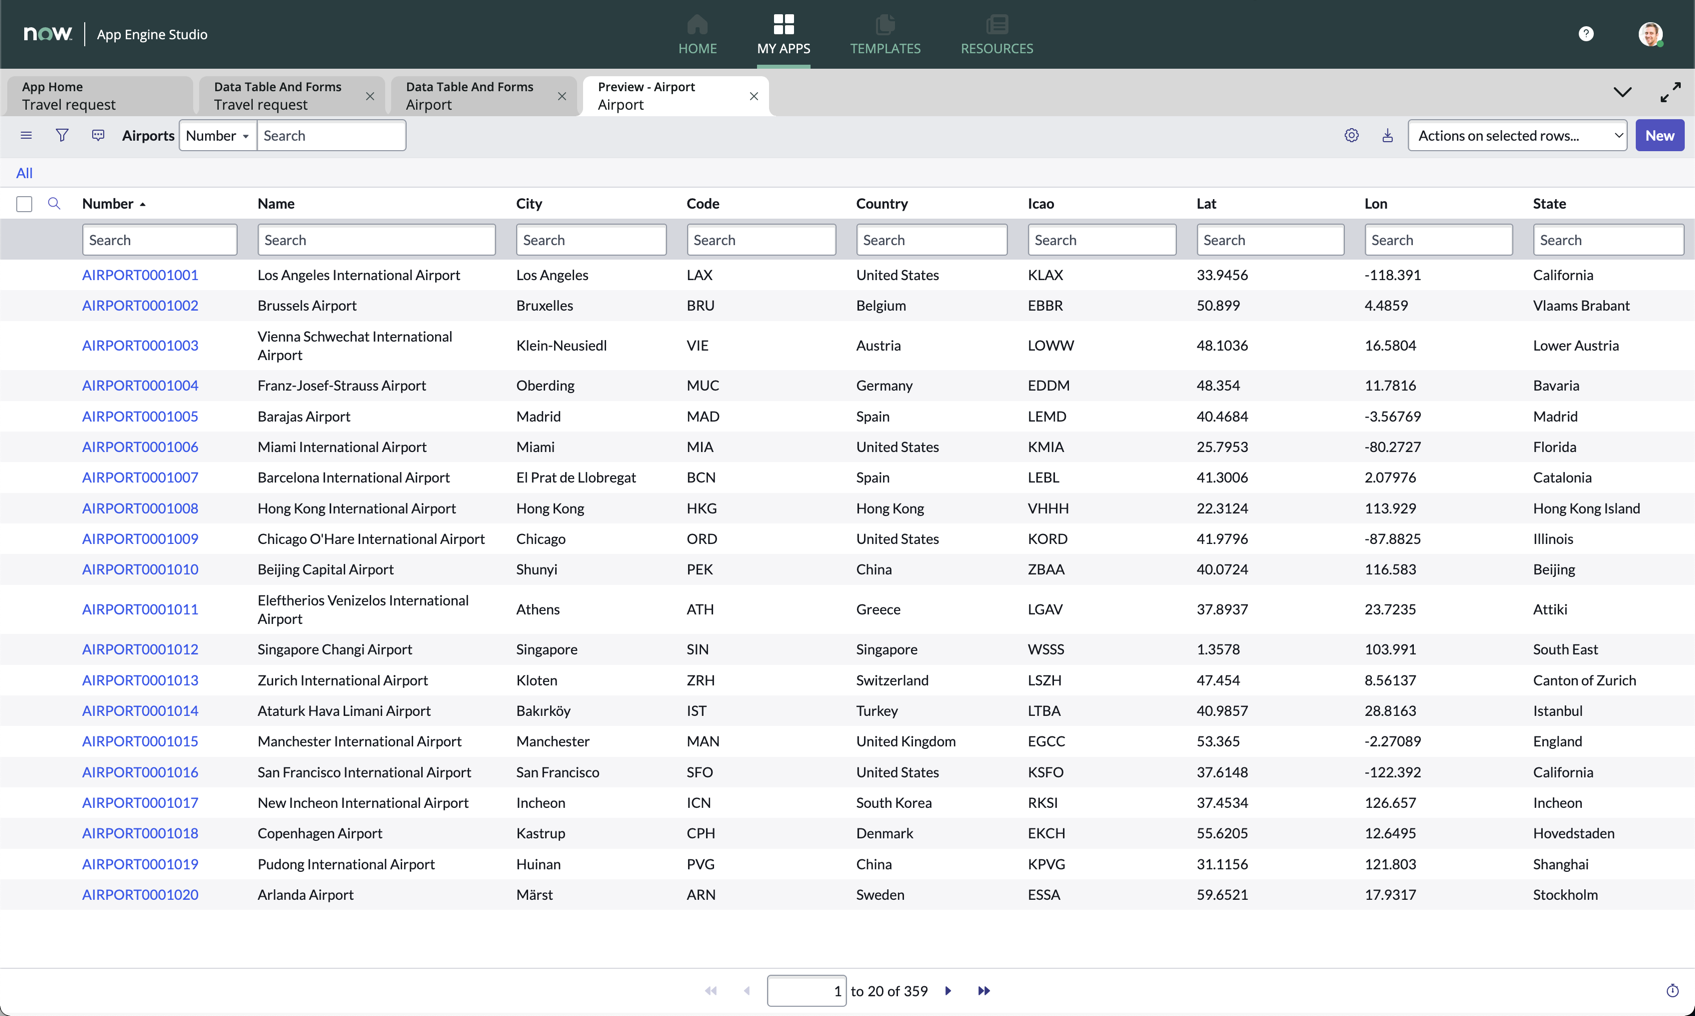
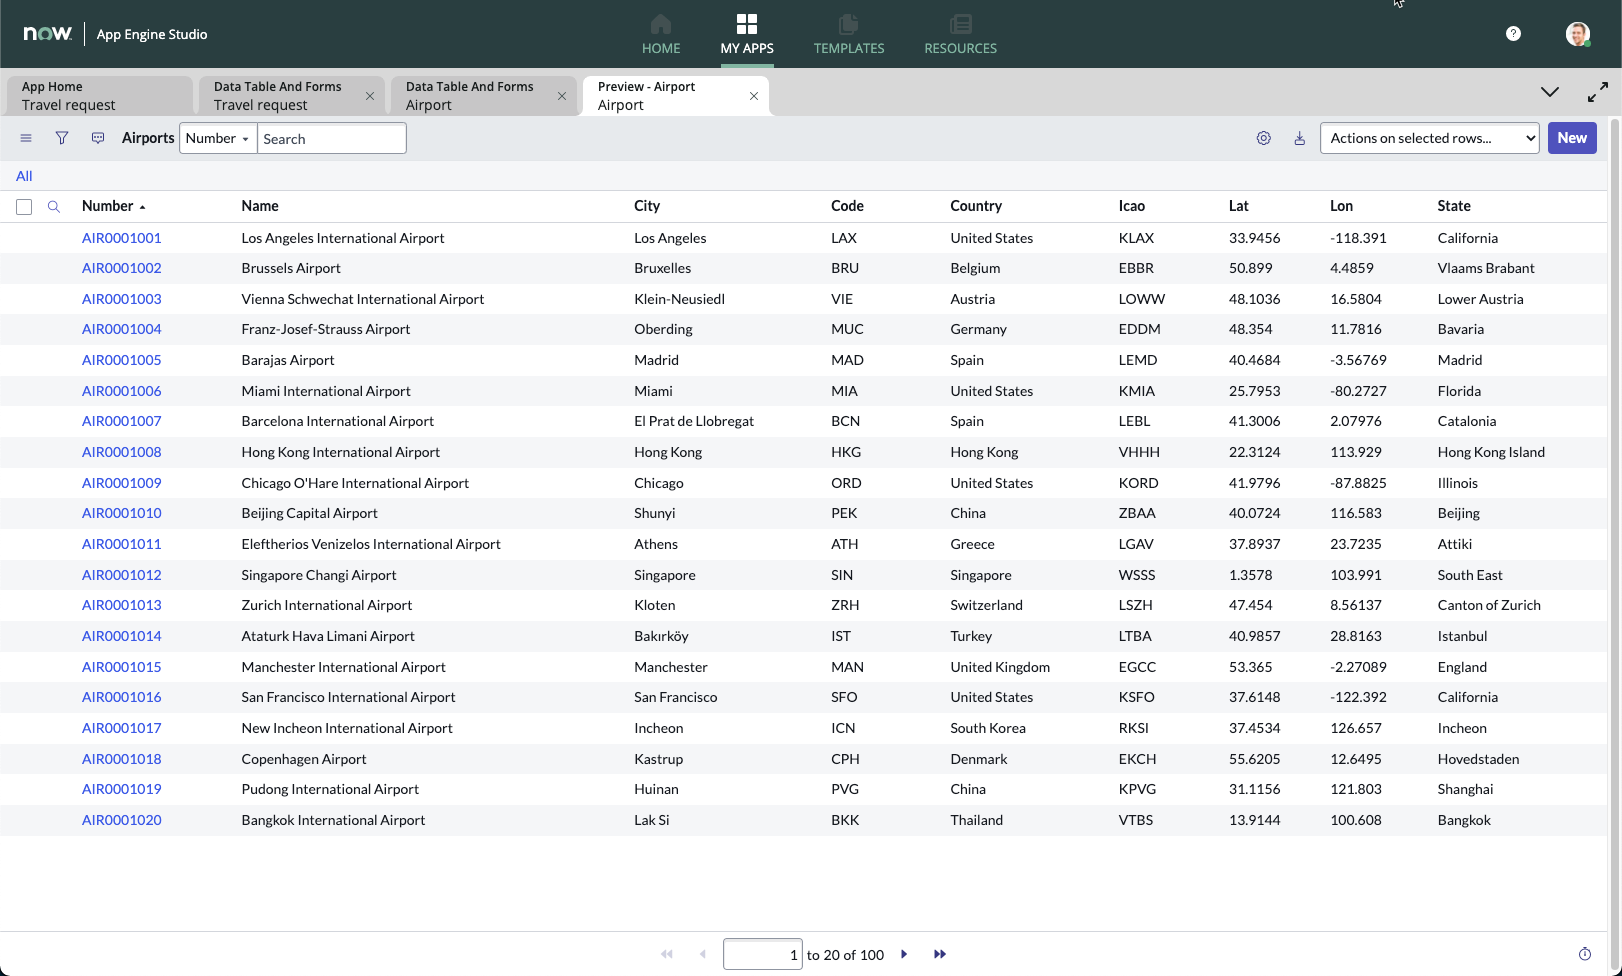
changesfactored2

diff --git a/docs/Exercise 2.md b/docs/Exercise 2.md
@@ -20,7 +20,7 @@ For this exercise, we will focus on exposing your newly created table on one of 
 
 1. Click **Get started**
 
-1. On the **ADD EXPERIENCE** screen, enter *Raise a travel request* for **Name**, and *Capture employee travel requests* for description
+1. On the **ADD EXPERIENCE** screen, enter *Raise a travel request* under **Name**, and *Capture employee travel requests* for description
 
     ![relative](images/namerp.png)
     
@@ -46,11 +46,9 @@ For this exercise, we will focus on exposing your newly created table on one of 
 
     ![relative](images/browse.png)
 
-1. On the next screen, look for **Service Catalog** under the **Available** section and double click on it (Your list might appear different from the screenshot below)
+1. On the next screen, look for **Service Catalog** under the **Available** section and move it to the right (Your list might appear different from the screenshot below)
 
-    ![relative](images/selectservicecat.png)
-
-1. After double clicking, ensure that **Service Catalog** now appears in the **Selected** section
+1. Ensure that **Service Catalog** now appears in the **Selected** section
 
 1. On the bottom right, click **Save selections**
 
@@ -58,7 +56,7 @@ For this exercise, we will focus on exposing your newly created table on one of 
 
 1. This time, do the same as before, and select **Can We Help You?** from the **Available** list
 
-    ![relative](images/canwehelp.png)
+    ![relative](images/selectservicecat.gif)
 
 1. On the left sidebar, select **Questions**
 
@@ -70,7 +68,9 @@ For this exercise, we will focus on exposing your newly created table on one of 
 
 1. Click **Submit**
 
-1. Repeat the top 3 steps again, but this time select **Two column container** and enter **Locations**
+1. Repeat the top 3 steps again, but this time select **Two column container** and enter **Dates and locations**
+
+    ![relative](images/addsections.gif)
 
 1. Your screen should look like this
    
@@ -91,8 +91,7 @@ For this exercise, we will focus on exposing your newly created table on one of 
     Question label | What is the reason for travel?
     Mandatory | **Checked**
 
-    ![relative](images/filledp1.png)
-    ![relative](images/reasonpt2.png)
+    ![relative](images/reasonfortravel1.gif)
 
 1. Click **Choices**
 
@@ -102,19 +101,41 @@ For this exercise, we will focus on exposing your newly created table on one of 
 
     >The **Value** column is automatically populated, leave it as it is.
 
-    ![relative](images/canpreview.png)
-
 1. On the bottom right, click **Insert Question**
 
-    >For the purposes of time in this lab, we will skip adding the following fields to our form: **Departure Date** and **Estimated airfare**. Feel free to take up the challenge and add those fields into your form if you have the time.
+    ![relative](images/insertreason.gif)
 
-1. Expand the **Locations** section
+1. Expand the **Dates and locations** section
 
 1. On the left column, add a **New question**
 
     ![relative](images/datequestion.png)
 
 1. Fill out the form as follows
+
+    Name | Selection
+    -------------- | --------------
+    Question type | Date / Time
+    Question subtype | Date
+    Map to a specific field on the table | **Checked**
+    Tabel field | Departure date
+    Question label | When are you leaving?
+
+1. Click **Insert Question** at the bottom right
+
+1. Repeat the steps above again for **Return date**
+
+    Name | Selection
+    -------------- | --------------
+    Question type | Date / Time
+    Question subtype | Date
+    Map to a specific field on the table | **Checked**
+    Tabel field | Return date
+    Question label | When do you return?
+
+1. Now we will capture the locations by looking at the **Airport** table we created
+
+1. Under the same **Dates and locations** section, add a new question
 
     Name | Selection
     -------------- | --------------
@@ -154,7 +175,13 @@ For this exercise, we will focus on exposing your newly created table on one of 
     
     ![relative](images/previewform.png)
 
-1. Try filling in the form with any details
+1. Try filling in the form with any details, but you won't be able to submit the form as it is in preview mode only
+
+1. Click **Now Mobile** on the left sidebar
+
+    ![relative](images/nowmobile.png)
+
+1. The experience also automatically gets added to the mobile catalog, so your users can request for travel on the go
 
 1. Close the preview by clicking the cross icon on the top right
 
@@ -162,7 +189,7 @@ For this exercise, we will focus on exposing your newly created table on one of 
 
 1. Click the **Submit** button
 
-We will test this form on the *Employee Center Portal* at the end of the exercise. Now it's time for us to create an approval workflow for this travel request!
+We will test this form on the *Employee Center Portal* at the end of this session. Now it's time for us to create an approval workflow for this travel request!
 
 <br>
 

diff --git a/docs/Exercise 1.md b/docs/Exercise 1.md
@@ -88,6 +88,7 @@ We will now create a table to capture the travel requests.
     Column label | Type
     -------------- | --------------
     Departure date | Date
+    Return date | Date
     Estimated airfare | Decimal 
     Reason for travel | Choice (Dropdown with --None--) : **Internal meeting, Customer meeting, Training**
 
@@ -141,7 +142,7 @@ We will now create a table to capture the travel requests.
 
 1. Under **Table label**, enter **Airport**. **Table name** will be automatically populate, leave it as it is
 
-1. Check **Auto number**, then under **Prefix**, enter **AIRPORT**
+1. Check **Auto number**, leave the Prefix as it is
 
     ![relative](images/filledupairport.png)
 
@@ -163,11 +164,11 @@ We will now create a table to capture the travel requests.
 
 1. Click **Preview**
 
-1. A new tab should open and show you the list of airports you have imported. 
+1. A new tab should open and show you the list of airports you have imported. Notice that there are 100 airports imported as per our excel spreadsheet. 
   
     ![relative](images/airportlist.png)
 
-Great, you now have a table to store the list of Airports around the world!
+Great, you now have a table to store the list of Airports!
 
 ## Completing the Travel request table
 
@@ -192,7 +193,7 @@ Great, you now have a table to store the list of Airports around the world!
 
 1. Click **Save**
 
-    > For simplicity, we are not adding additional fields like Return date, Daily estimated expenses, etc. You can always choose to add those fields if you want to.
+    > For simplicity, we are not adding additional fields like Daily estimated expenses, etc. You can always choose to add those fields if you want to.
 
 ## Styling the backend form
 
@@ -207,19 +208,26 @@ Great, you now have a table to store the list of Airports around the world!
     - Priority
     - Parent
     - Active
+    
+    <br>
 
-    ![relative](images/removefields.png)
+    ![relative](images/removefields.gif)
 
 1.  These fields are inherited from the task table, and are not needed for the purposes of our application.
 
 1. From the left sidebar, search and drag in the following fields onto the form views
 
     - Reason for travel
-    - Departure date
+    - Opened by
     - Travel from
     - Travel to
+    - Departure date
+    - Return date
     - Estimated airfare
-    - Opened by
+
+    <br>
+
+    ![relative](images/editingform.gif)
 
 1. When completed, your form view should look similar to this
 

diff --git a/docs/Exercise 4.md b/docs/Exercise 4.md
@@ -6,7 +6,7 @@ nav_order: 5
 
 # Exercise 4: Putting it all together - Testing our application
 
-Congratulations on making it so far! We have one last thing to do, which is to test our application. We will first directly grant a Travel request user role to one of our employees for the test.
+Congratulations on making it so far! We have one last thing to do, which is to test our application. Our person of interest here is Billie Cowley who is wanting to raise a travel request. His direct manager is Krystle Stika, and this relationship has already inherited through an Microsoft AD integration. We will first directly grant the Travel request user role to one of our employees for the test.
 
 1. Head back into the main ServiceNow interface
 
@@ -32,6 +32,8 @@ Congratulations on making it so far! We have one last thing to do, which is to t
 
 1. Click **Save**
 
+    >This is actually not best practice, but only for the purposes of today's activity. In a real implementation, it would be best to assign a role to a group, and then assign users to that group so they all inherit that role.
+
 1. Click on the profile picture on the top right, and click **Impersonate user**
 
     ![relative](images/impersonateuser.png)
@@ -51,6 +53,8 @@ Congratulations on making it so far! We have one last thing to do, which is to t
     > e.g. **if the copied URL is**: https://sad-oct-123-001.lab.service-now.com/now/nav/ui/classic/params/target/ui_page.do%3Fsys_id%3De7766625074130102b8affa08c1ed037 <br><br>
     **change it to:**
     https://sad-oct-123-001.lab.service-now.com/sp 
+
+    ![relative](images/getsp.gif)
 
 1. The Service Portal page should now open
 
@@ -94,7 +98,7 @@ Congratulations on making it so far! We have one last thing to do, which is to t
 
     ![relative](images/applist.png)
 
-1. Click **Approve**
+1. Review the details you submitted on the bottom of the form, then click **Approve**
 
     ![relative](images/approve.png)
 

diff --git a/index.md b/index.md
@@ -16,6 +16,12 @@ In this session, you will get hands-on experience in creating a Travel Request a
 
 As the Travel and Expense manager at ACME Corporation , you currently have very little visibility and control in the travel plans of your employees. Any travel plans now are requested via email from an employee to their manager, and you only get notified once the expense claims come in. The CFO has hence given you the task of better managing the costs associated with travel of your employees, and making sure that their travels are justifiable and reasonable. With that in mind, you have decided to take things in your own hands and build a Travel Request application leveraging the ServiceNow platform.
 
+After completing these exercises, you will have an application that does the following for your employees:
+<br>
+<br>
+
+![relative](docs/images/Userjourney.png)
+
 <br>
 
 [Start!](https://shaoservicenow.github.io/travelrequest/docs/Exercise%201.html){: .btn .btn-purple }
